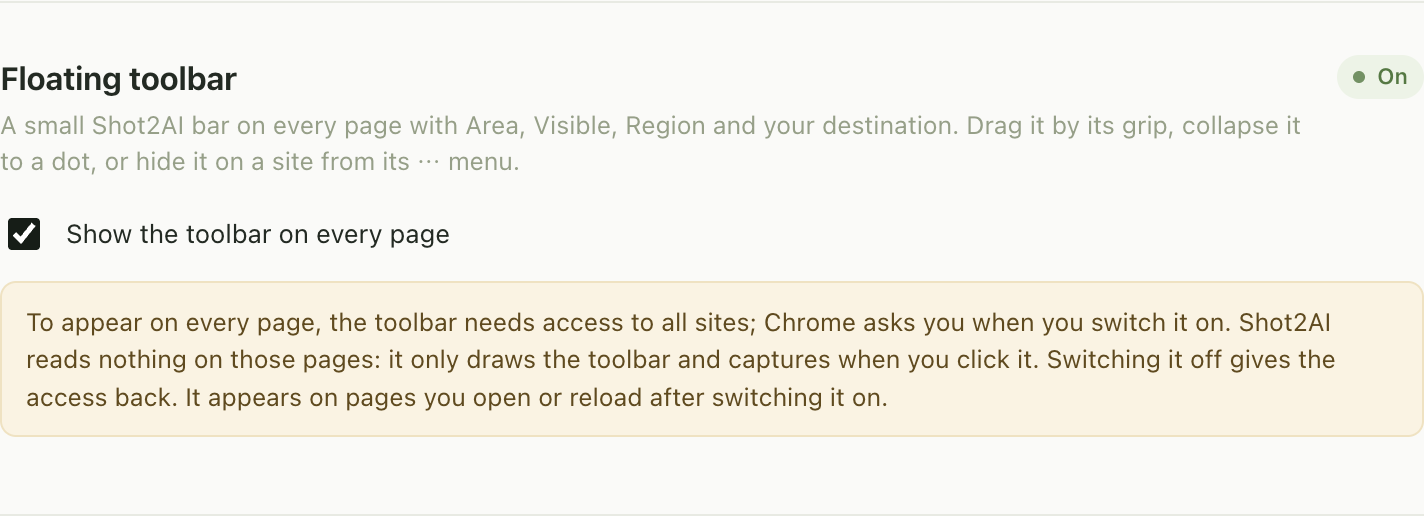
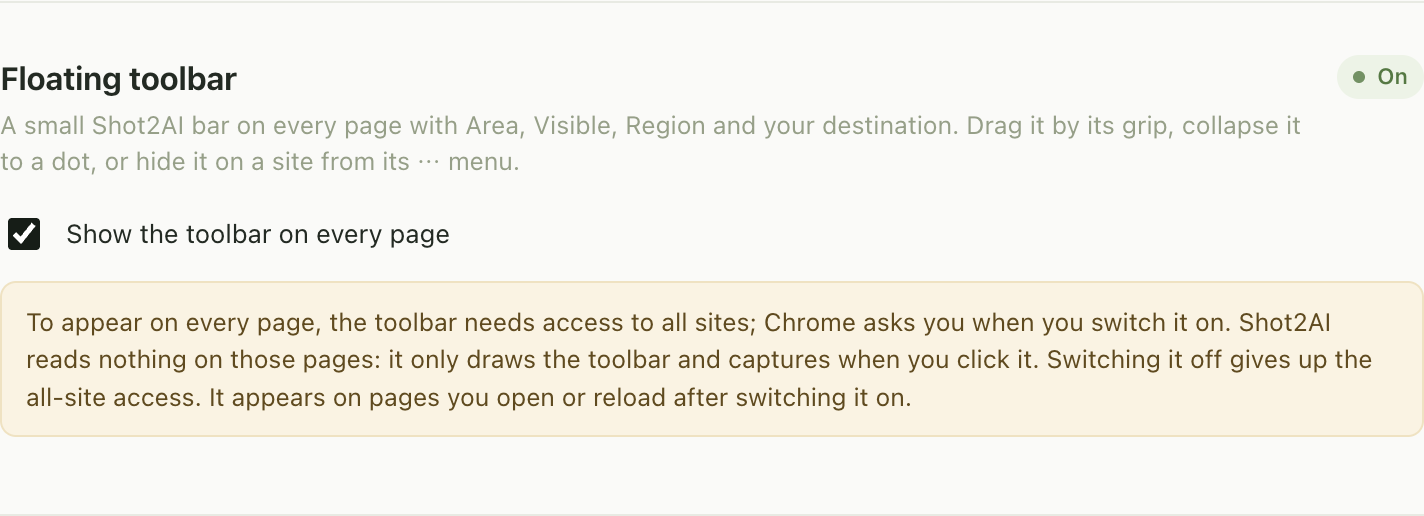
Shot2AI 0.2.0: README, version
Multi-send, prompts, auto-submit, saved region, image format and the
floating toolbar, documented; the privacy notes cover sends to several
chats, auto-submit and the toolbar's all-site access.

Claude-Session: https://claude.ai/code/session_01Xf7wTz9XZFZ1GCWzDzHaWW

Changed region(s): [[0.0309, 0.7442, 0.6489, 0.8062], [0.8961, 0.6822, 0.9579, 0.7132]]

diff --git a/README.md b/README.md
@@ -22,8 +22,10 @@ Right-click any page, selection, image or link and choose **Shot2AI**:
 
 - **Capture area…** starts the area selection.
 - **Capture visible page** takes the whole visible part of the page straight to the preview card.
+- **Capture saved region** captures this site's remembered region (see Saved region).
 - **Send to ▸** lists your destinations with a mark on the default. Picking one makes it the default for the next capture.
 - **Capture and send to <default>** captures the visible page and sends it at once. The card only shows the result; the first send to a web chat still asks you to confirm once.
+- **Send with prompt ▸** captures the visible page and sends it with one of your saved prompts.
 - **Send this image to <default>** (on an image) takes the image itself, or cuts it out of a capture of the page when the site does not allow reading it, and opens the card.
 - **Send selection with a screenshot** (on selected text) captures the visible page and puts the selected text in the message.
 - **Options**.
@@ -54,6 +56,30 @@ Sending to a web chat finds an open tab of that chat, or opens it. The extension
 
 Chrome asks you once per site to let the extension use it. The extension holds no permission for any site until you allow it.
 
+## Send to several at once
+
+Tick destinations in the card's menu (the chevron next to Send), or in **Options → Send to several at once**, and choose **Send to all selected**. Each web chat gets its own tab and paste, one after another. html2wp gets the screenshot through the app at the same time. The card lists the result for each destination. The first time the set includes a web chat you have not sent to before, one notice names all such sites before anything goes.
+
+## Prompts
+
+Saved messages to send with a screenshot. Four come built in: **Fix this bug**, **Explain this**, **Match this design** and **What's wrong here?**. In **Options → Prompts** you can add, edit, delete and reorder prompts and choose a **default prompt**, which fills the message of every new capture. The card and the editor have a **Prompt** picker next to the message: picking one fills the message, and you can still edit it. Right-click → Shot2AI → **Send with prompt ▸** captures the visible page and sends it with that prompt.
+
+## Send automatically (opt-in)
+
+Each web chat in **Options → Other destinations** has a **Send automatically** switch, off by default. With it on, Shot2AI presses the chat's send button after pasting, so the message goes without you reviewing it. ChatGPT and Claude have known send buttons. For any other chat Shot2AI looks for the nearest enabled submit button, or a button labelled Send, next to the message box, and presses nothing else. If none is found, the card says so and the text waits for you to press Enter. It is never used for html2wp, which has its own flow.
+
+## Saved region
+
+After capturing an area, choose **Region → Remember this region** in the card. The region is kept for that site as a share of the window, not in pixels. **Capture saved region** (in the card's Region menu, the right-click menu, or **Alt+Shift+R**) captures that part of the visible page again in one step. It is cut to the window if the window is now smaller. On a site without a saved region, it starts the area selection.
+
+## Image format & quality
+
+In **Options → Image format & quality**: **PNG** (lossless, the default), or **JPEG** or **WebP** at 50–100 %. It applies to screenshots sent to web chats and to saved copies (the file extension follows). html2wp always receives PNG, and a copy to the clipboard stays PNG, the only image type the clipboard accepts. The card shows the format and size, for example "JPEG 80 % · 64 KB".
+
+## Floating toolbar (opt-in)
+
+**Options → Floating toolbar** puts a small bar on every page with **Area**, **Visible**, **Region** and your destination. It is off by default. Switching it on asks Chrome for access to all sites, which it needs to appear on every page and capture from it; switching it off gives up that access. Drag it by its grip: its place is kept per site and it stays inside the window. Collapse it to a dot with **–**, or choose **⋯ → Hide on this site**; Options lists hidden sites with **Show again**. The bar steps aside while a capture is taken, so it is never in the screenshot. It appears on pages you open or reload after switching it on.
+
 ## Saving
 
 Options → **Saving**:
@@ -67,6 +93,8 @@ Options → **Saving**:
 
 - **html2wp**: the screenshot and the message go **only to 127.0.0.1**, the html2wp app on this computer. The app listens on 127.0.0.1 only, on port 47811 (or the next free one up to 47815). It answers only the paired extension: every request needs the pairing token, and a request from a web page's origin is refused. Once it has the screenshot, html2wp handles it like any image you attach in its chat.
 - **A web chat** (ChatGPT, Claude, or one you added) **is a website**. A screenshot you send there goes to that site and is handled under its terms. The card and the editor say this the first time you send to each chat, and the Options page says it next to the destinations.
+- **Send automatically** and **Send to all selected** send to web chats too: with Send automatically on, the message goes to that site without you reviewing it first.
+- The **floating toolbar** needs access to all sites while it is on. It reads nothing on those pages: it draws itself and captures only when you click it.
 - Captures stay in the extension's own storage in this browser until you send, copy or save them. They are removed after sending to html2wp, or after a day.
 
 ## Develop
@@ -89,11 +117,16 @@ The tests run the unpacked extension in Chromium against a mock of the app's bri
 - Annotate, then drawing and sending from the editor
 - pasting an image into the editor with ⌘V or Ctrl+V
 - a custom web chat receiving the pasted PNG file and the text
-- a copy saved through the Downloads fallback
+- a copy saved through the Downloads fallback, in JPEG at 80 % (the chat gets a JPEG too, html2wp still gets PNG)
+- send to several at once: html2wp and a web chat from one click, with a result line for each
+- auto-submit: off never presses the chat's send button, on presses it once, and a missing button is reported
+- prompts: add, reorder, delete and a default prompt in Options; the picker in the card and the editor; Send with prompt from the right-click menu
+- saved region: remembered per site, captured again at the same size, and clamped to the window
+- floating toolbar: off by default, registered when switched on, the Visible button, dragging (the place is kept after a reload), collapsing, hiding per site and showing again, and switching off
 
 Screenshots go to `screenshots/`.
 
-The test loads a copy of the extension with three changes. Its manifest also holds `<all_urls>`, which stands in for the toolbar click that grants `activeTab`; Playwright cannot perform that click. The card's shadow root is opened so the test can reach inside it. The service worker records the context-menu items it creates and exposes its click handler. The shipped files have none of these changes. Chrome's own "allow this site" prompt, and the folder picker, cannot be driven by Playwright and are not covered.
+The test loads a copy of the extension with a few changes. Its manifest also holds `<all_urls>`, which stands in for the toolbar click that grants `activeTab`; Playwright cannot perform that click. The card's and the toolbar's shadow roots are opened so the test can reach inside them. The service worker records the context-menu items it creates and exposes its click handler. The shipped files have none of these changes. Chrome's own permission prompts (a chat site, all sites for the toolbar), the folder picker, keyboard shortcuts and real ChatGPT and Claude pages cannot be driven by Playwright and are not covered.
 
 To build the release ZIP (manifest.json, src, icons, licenses and README.md), run `python3 scripts/package.py`. It writes `dist/shot2ai-<version>.zip` and fails if any file referenced by the manifest, a page, a module import or an injected script is missing from the ZIP. `python3 scripts/icons.py` redraws the icons, and `python3 scripts/toolbar-preview.py` shows them on light and dark toolbars.
 
